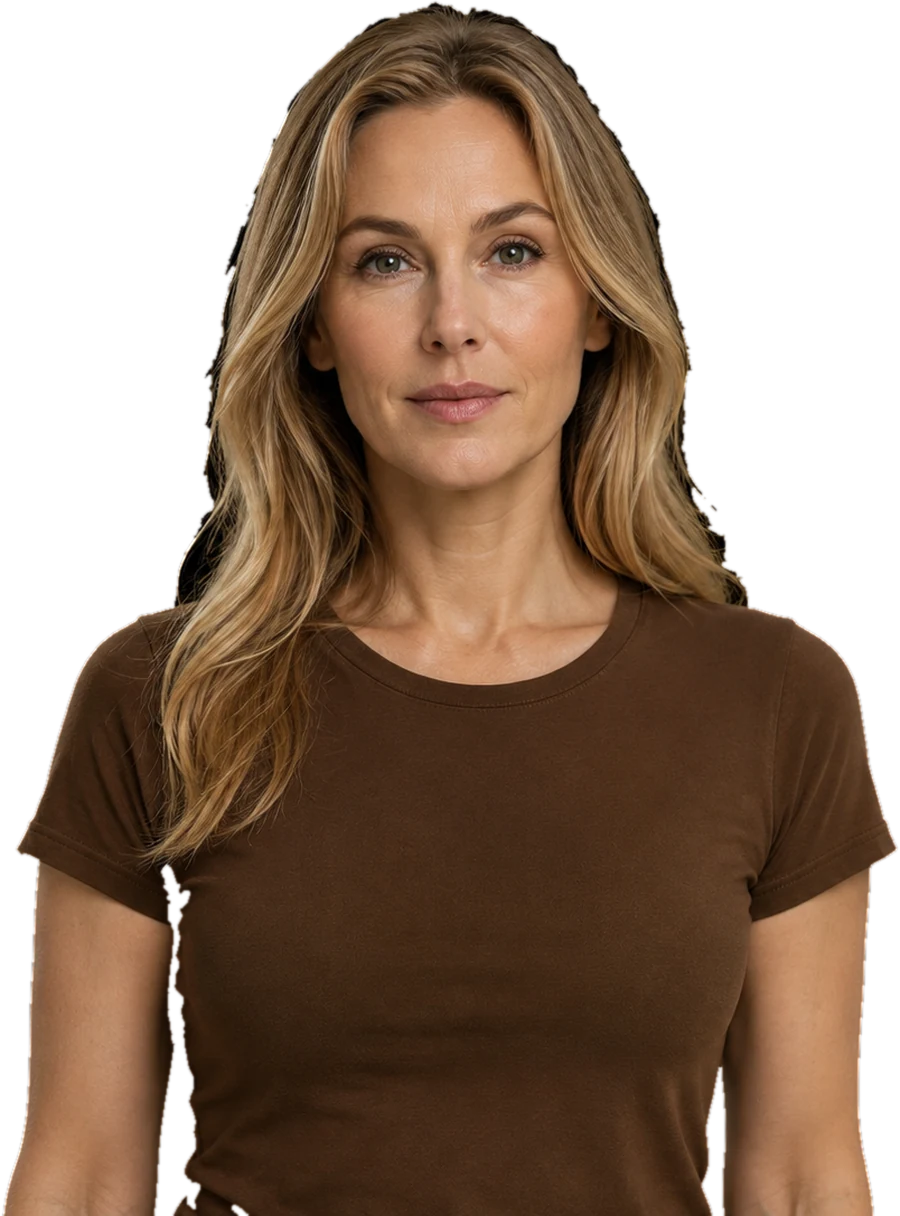
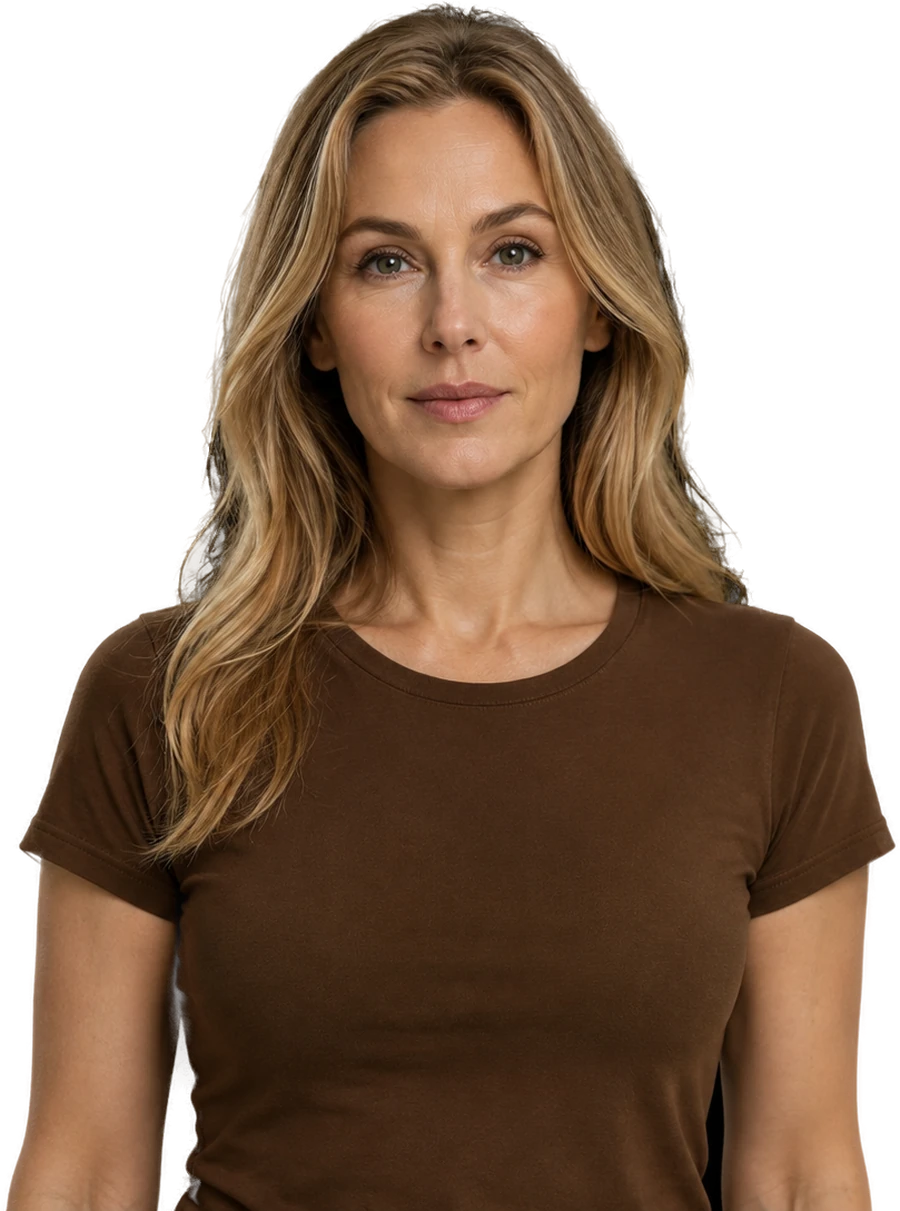
Recorte do cabelo refeito com matting de verdade, e fundo do cartao de volta
FUNDO — desfaz o branco
Eu tinha trocado o cartao pra branco achando que era isso o 'padronizar as
cores'. Nao era. Voltou pro bege que estava.

RECORTE
Parei de insistir em limiar. Separar cabelo escuro de fundo preto por brilho ou
por conectividade tem teto: as duas coisas sao literalmente os mesmos pixels, e
toda variacao que tentei ou deixava franja preta ou comia fio de cabelo.

Agora usa rembg com u2net e alpha matting, que estima transparencia por pixel em
vez de decidir sim/nao. E o que preserva mecha solta com borda macia. As quatro
fotos foram refeitas.

Fica registrado pra proxima: nao existe recorte bom de cabelo com limiar, e a
ferramenta ja estava disponivel aqui desde o inicio.

diff --git a/quiz/v2/index.html b/quiz/v2/index.html
@@ -56,7 +56,7 @@
   <link rel="preconnect" href="https://fonts.googleapis.com"/>
   <link rel="preconnect" href="https://fonts.gstatic.com" crossorigin/>
   <link rel="preload" as="style" href="https://fonts.googleapis.com/css2?family=Inter:wght@400;500;600;700;800;900&display=swap"/>
-  <link rel="stylesheet" href="quiz-warm.css?v=180"/>
+  <link rel="stylesheet" href="quiz-warm.css?v=181"/>
 </head>
 <body>
 

diff --git a/quiz/v2/quiz-warm.css b/quiz/v2/quiz-warm.css
@@ -3708,7 +3708,7 @@ body.marca-na-tela-1:has(#s1.screen.active) .wrap {
   border: 0;
   border-radius: 14px;
   overflow: hidden;
-  background: var(--card);        /* branco, igual aos cartões de opção do quiz */
+  background: var(--card-active);
   min-height: 0;
   height: 100%;
   cursor: pointer;
